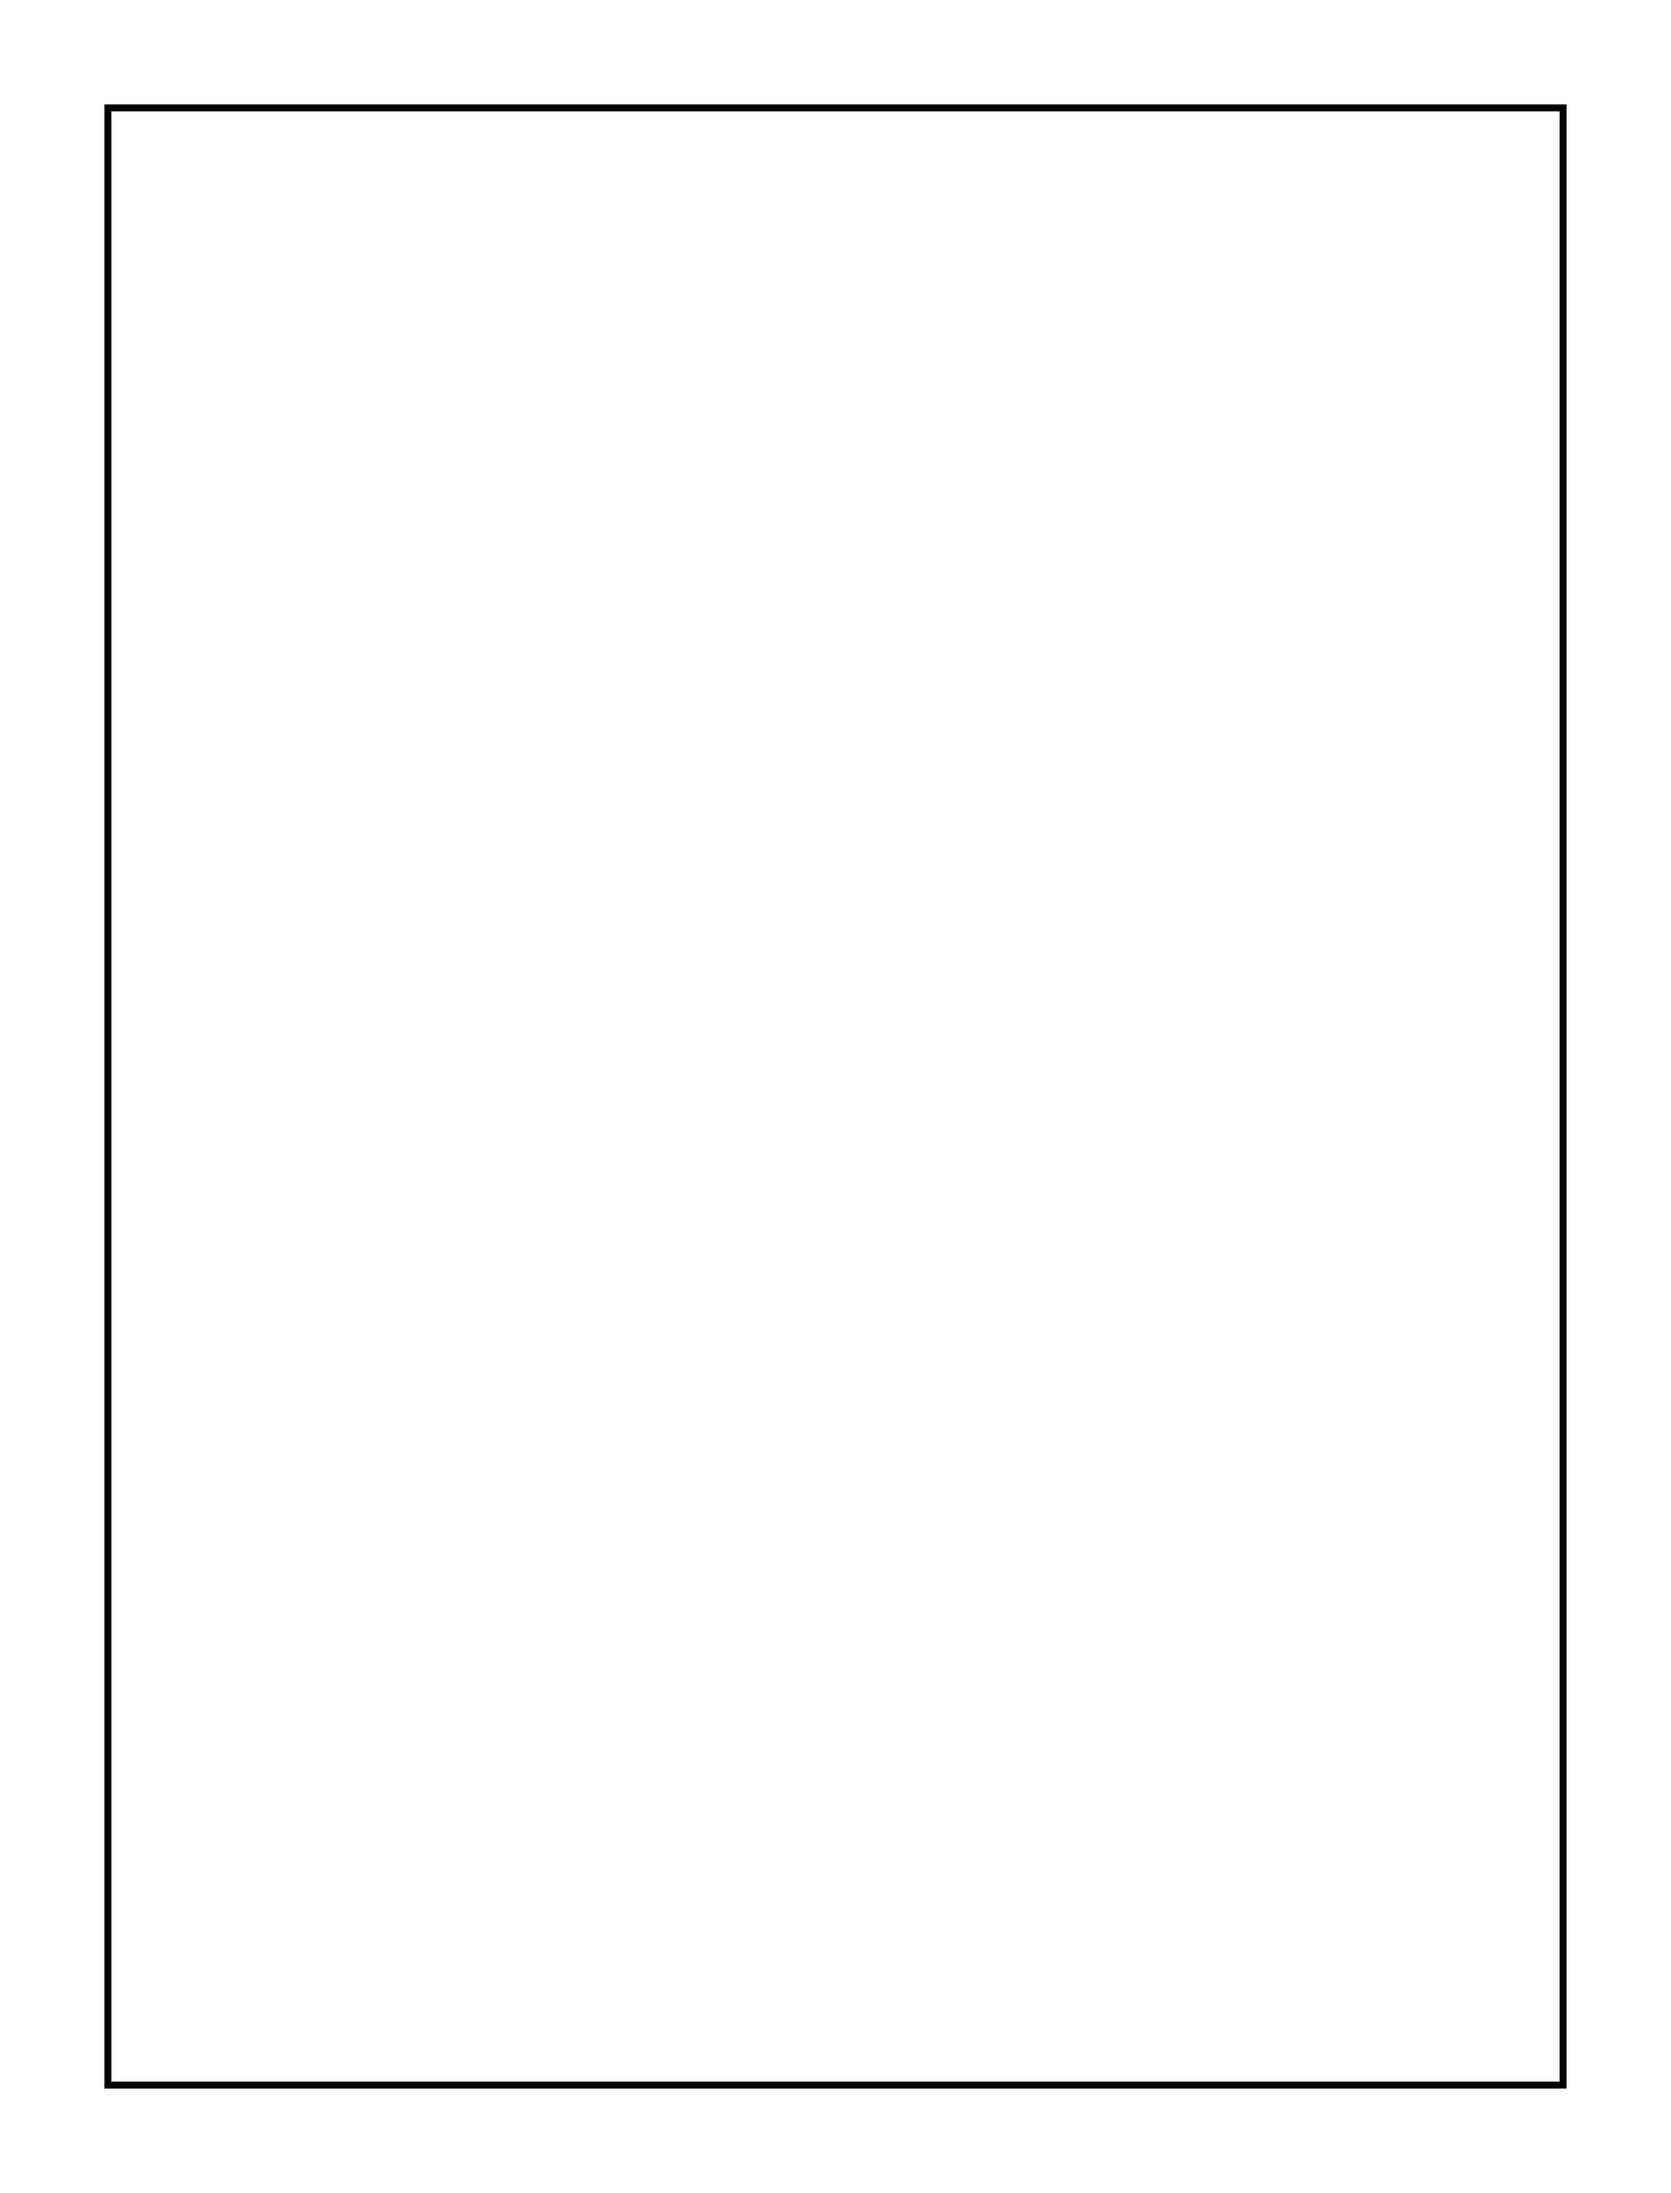
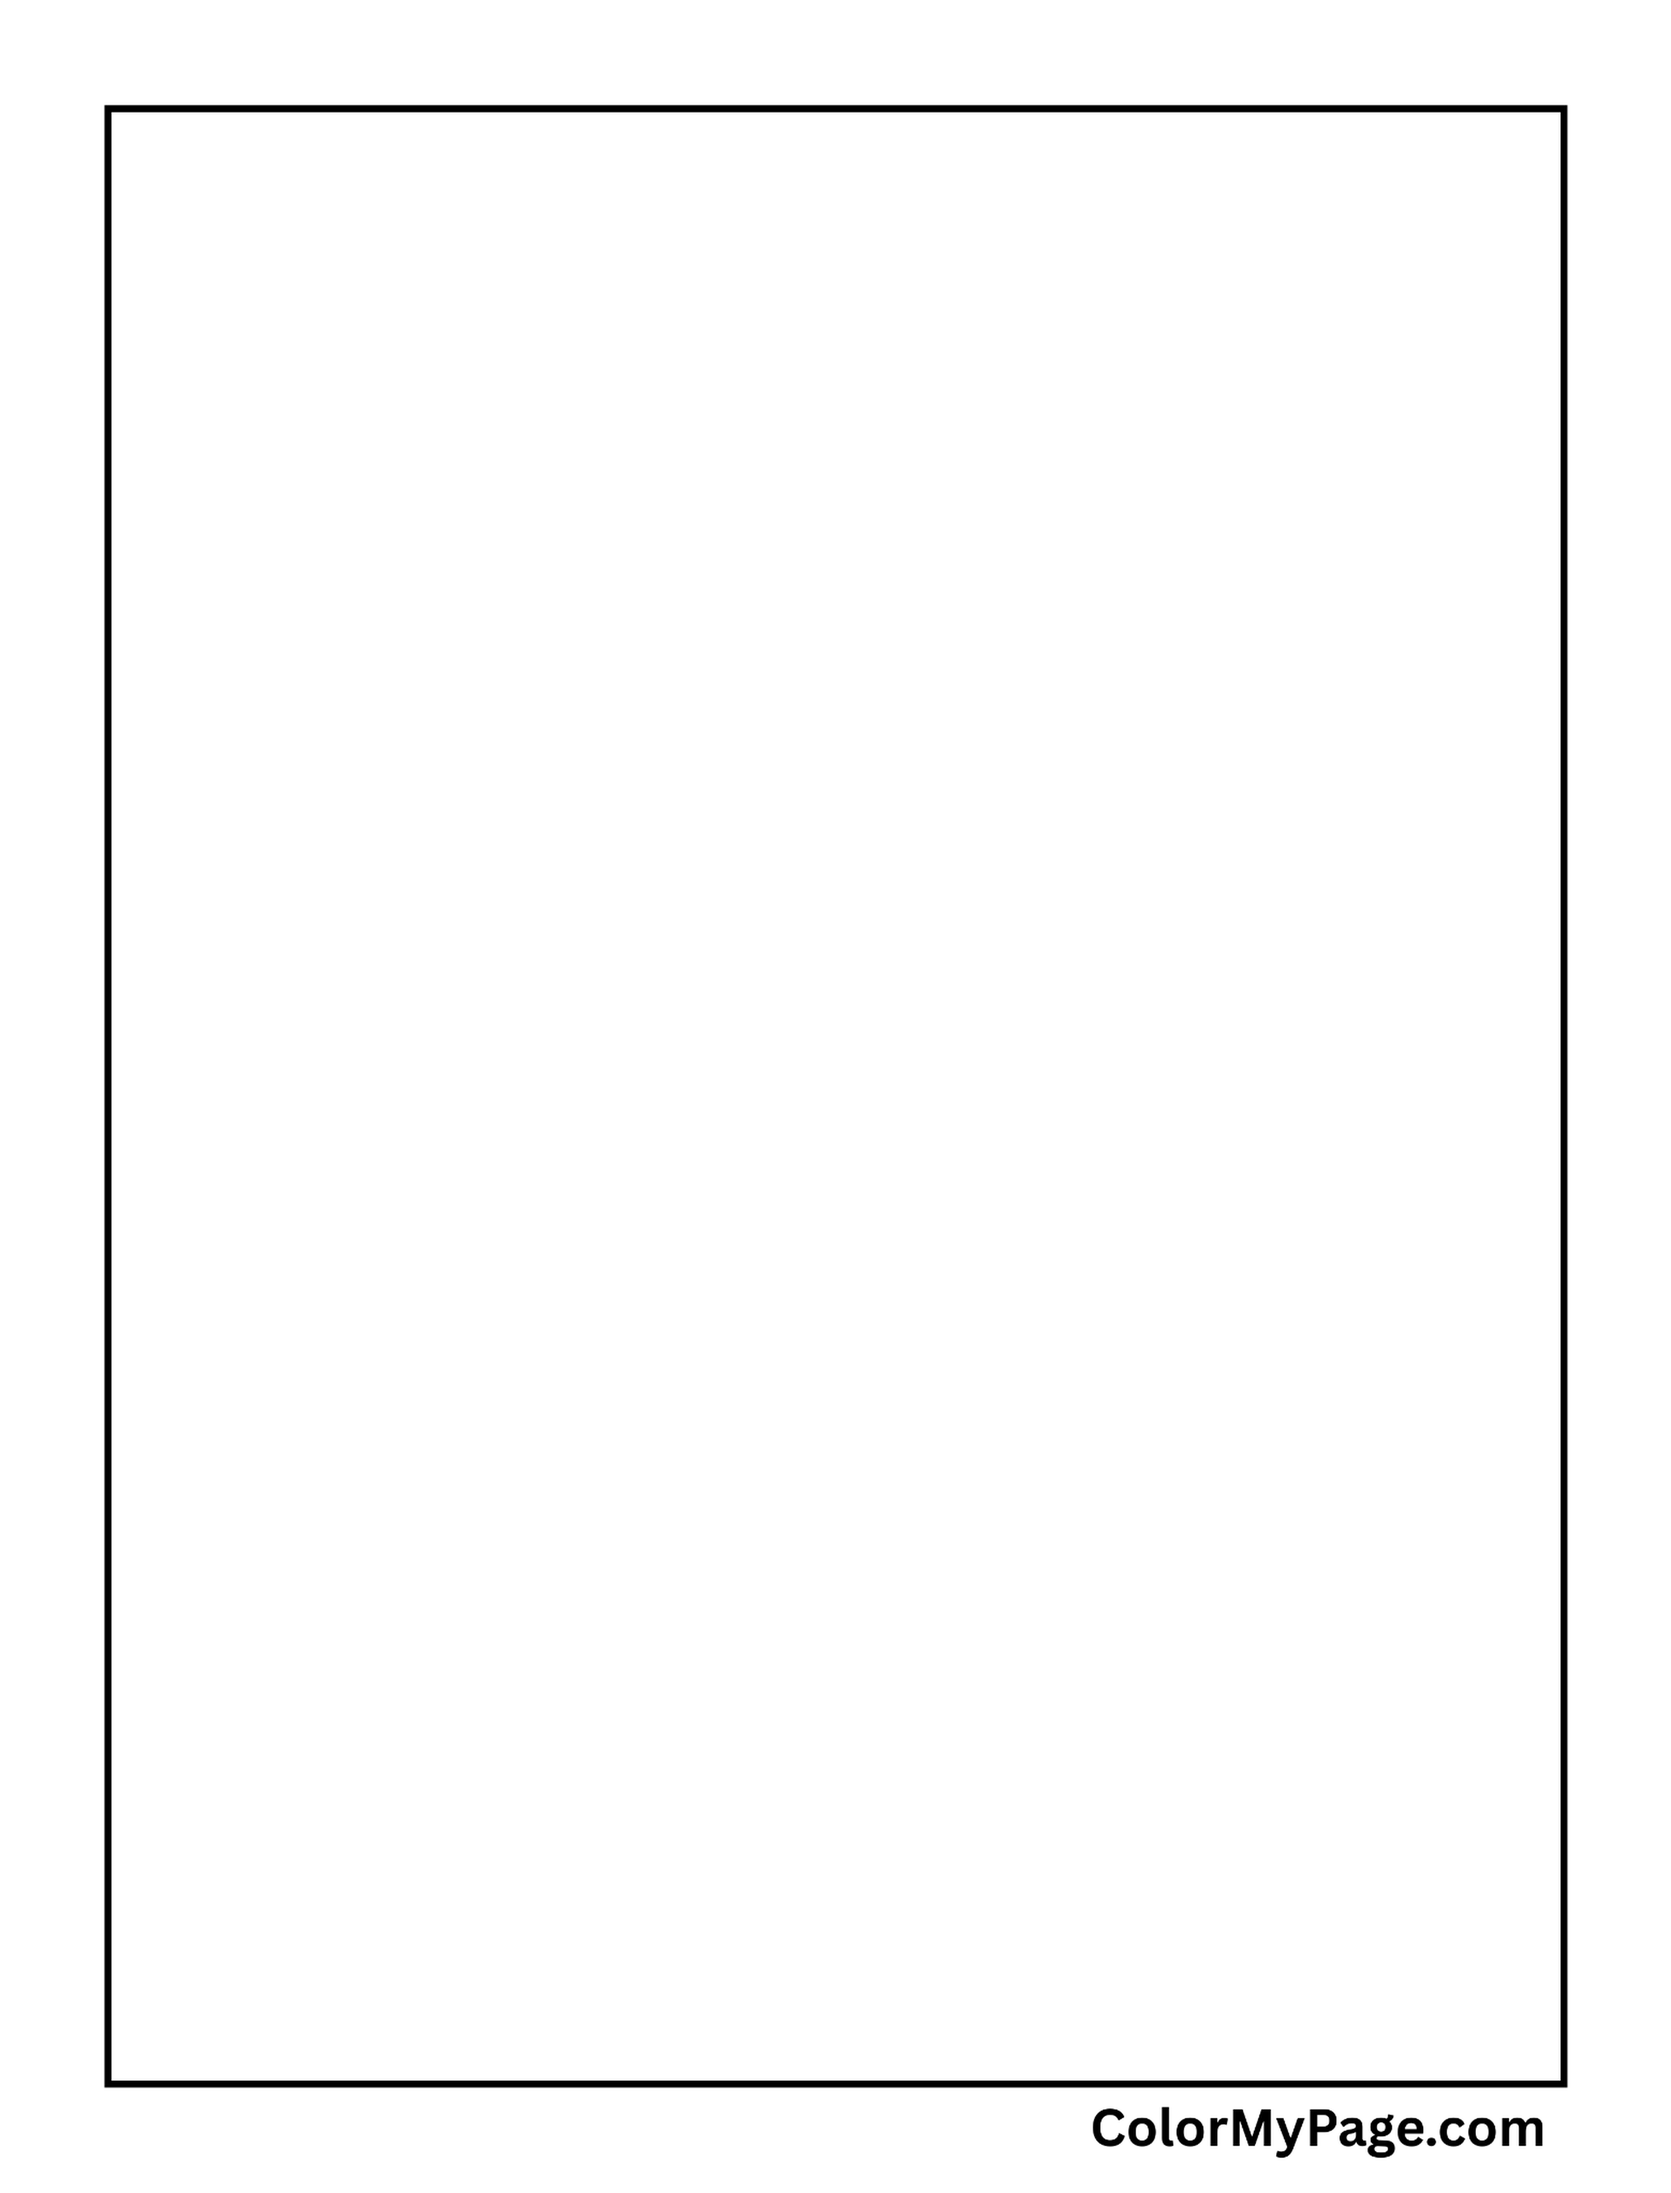
update to the coloring pages frame generator

Changed region(s): [[0.6562, 0.9644, 0.9375, 0.9956]]

diff --git a/img-gen/make_coloring_pages.js b/img-gen/make_coloring_pages.js
@@ -6,20 +6,20 @@
 // Prerequisites:
 //   npm install sharp
 //
-// Layout reference (all at 300 DPI):
-//   ┌────────────────────────────── 8 in ───────────────────────────────┐
-//   │  ↙ 0.5 in (150 px) margin                                         │
+// Layout reference (all at 300 DPI):
+//   ┌────────────────────────────── 8 in ───────────────────────────────┐
+//   │  ↙ 0.5 in (150 px) margin                                         │
 //   │  ┌────────────────────────────────────────────────────────────┐    │
-//   │  │ 10 px black border (drawn in frame PNG itself)             │    │
+//   │  │ 10 px black border (drawn in frame PNG itself)             │    │
 //   │  │                                                            │    │
-//   │  │  ← 2080 px →  (INNER_W)                                    │    │
+//   │  │  ← 2080 px →  (INNER_W)                                    │    │
 //   │  │  ↑                                                       ↑ │    │
-//   │  │  2830 px             (photo area / INNER_H)              │ │    │
+//   │  │  2830 px             (photo area / INNER_H)              │ │    │
 //   │  │  ↓                                                       ↓ │    │
 //   │  │                                                            │    │
 //   │  └────────────────────────────────────────────────────────────┘    │
 //   │                                                                    │
-//   └────────────────────────── 10.5 in ─────────────────────────────────┘
+//   └────────────────────────── 10.5 in ─────────────────────────────────┘
 
 const fs   = require("fs");
 const path = require("path");
@@ -29,22 +29,25 @@ const sharp = require("sharp");
 // CONFIGURATION – adjust these paths/numbers if your frame PNG changes
 // -----------------------------------------------------------------------------
 
-const FRAME_PATH = path.resolve(__dirname, "frame.png"); // **no watermark**
-// If you prefer the quarter-watermark version, change to: "frame_quarterwatermark.png"
+// ⚠ Use the frame that already contains the watermark & solid centre –
+// we will cut the window out programmatically so you don't have to edit
+// the artwork by hand.
+const FRAME_PATH = path.resolve(__dirname, "frame.png");
+// If you prefer the quarter‑watermark version, change to: "frame_quarterwatermark.png"
 
 const INPUT_DIR  = path.resolve(__dirname, "images");
 const OUTPUT_DIR = path.resolve(__dirname, "coloring_pages");
 
 const DPI     = 300;
-const FRAME_W = 8   * DPI;  // 2400 px
-const FRAME_H = 10.5 * DPI; // 3150 px
-const MARGIN  = 0.5 * DPI;  // 150 px
+const FRAME_W = 8   * DPI;  // 2400 px
+const FRAME_H = 10.5 * DPI; // 3150 px
+const MARGIN  = 0.5 * DPI;  // 150 px
 const BORDER  = 10;         // border thickness in the PNG
 
-const INNER_LEFT = MARGIN + BORDER;                  // 160 px
-const INNER_TOP  = MARGIN + BORDER;                  // 160 px
-const INNER_W    = FRAME_W - 2 * (MARGIN + BORDER);  // 2080 px
-const INNER_H    = FRAME_H - 2 * (MARGIN + BORDER);  // 2830 px
+const INNER_LEFT = MARGIN + BORDER;                  // 160 px
+const INNER_TOP  = MARGIN + BORDER;                  // 160 px
+const INNER_W    = FRAME_W - 2 * (MARGIN + BORDER);  // 2080 px
+const INNER_H    = FRAME_H - 2 * (MARGIN + BORDER);  // 2830 px
 
 // Regex for acceptable input extensions
 const IMG_EXT_RE = /\.(png|jpe?g|webp)$/i;
@@ -58,10 +61,32 @@ if (!fs.existsSync(OUTPUT_DIR)) {
 }
 
 // -----------------------------------------------------------------------------
+// Helper – build an in‑memory frame with a transparent window so the
+// watermark/border sit *on top* of the photo instead of being covered by it.
+// -----------------------------------------------------------------------------
+async function buildWindowedFrame() {
+  // Draw a rectangle the exact size of the photo area and use the
+  // "dest-out" blend mode to punch that area to transparency.
+  const windowSVG = Buffer.from(`
+    <svg width=\"${FRAME_W}\" height=\"${FRAME_H}\" xmlns=\"http://www.w3.org/2000/svg\">
+      <rect x=\"${INNER_LEFT}\" y=\"${INNER_TOP}\" width=\"${INNER_W}\" height=\"${INNER_H}\" fill=\"#ffffff\" />
+    </svg>`);
+
+  return sharp(FRAME_PATH)
+    .ensureAlpha()
+    .composite([{ input: windowSVG, blend: "dest-out" }])
+    .png()
+    .toBuffer();
+}
+
+// -----------------------------------------------------------------------------
 // Main processing loop
 // -----------------------------------------------------------------------------
 
 (async () => {
+  // Build the windowed frame **once** so we can reuse the buffer for every file
+  const FRAME_BUFFER = await buildWindowedFrame();
+
   const files = fs.readdirSync(INPUT_DIR).filter(f => IMG_EXT_RE.test(f));
 
   if (files.length === 0) {
@@ -84,9 +109,20 @@ if (!fs.existsSync(OUTPUT_DIR)) {
       .png()
       .toBuffer();
 
-    // Composite the photo onto the frame at the exact inner-window coords
-    await sharp(FRAME_PATH)
-      .composite([{ input: photoBuffer, left: INNER_LEFT, top: INNER_TOP }])
+    // Build a blank canvas the full page size, then paint the photo and
+    // finally the frame (with its transparent window) on top.
+    await sharp({
+      create: {
+        width: FRAME_W,
+        height: FRAME_H,
+        channels: 4,
+        background: { r: 255, g: 255, b: 255, alpha: 1 } // solid white page
+      }
+    })
+      .composite([
+        { input: photoBuffer,  left: INNER_LEFT, top: INNER_TOP },
+        { input: FRAME_BUFFER, left: 0,          top: 0 } // border + watermark on top
+      ])
       .png({ compressionLevel: 9 })
       .toFile(outputPath);
   }
